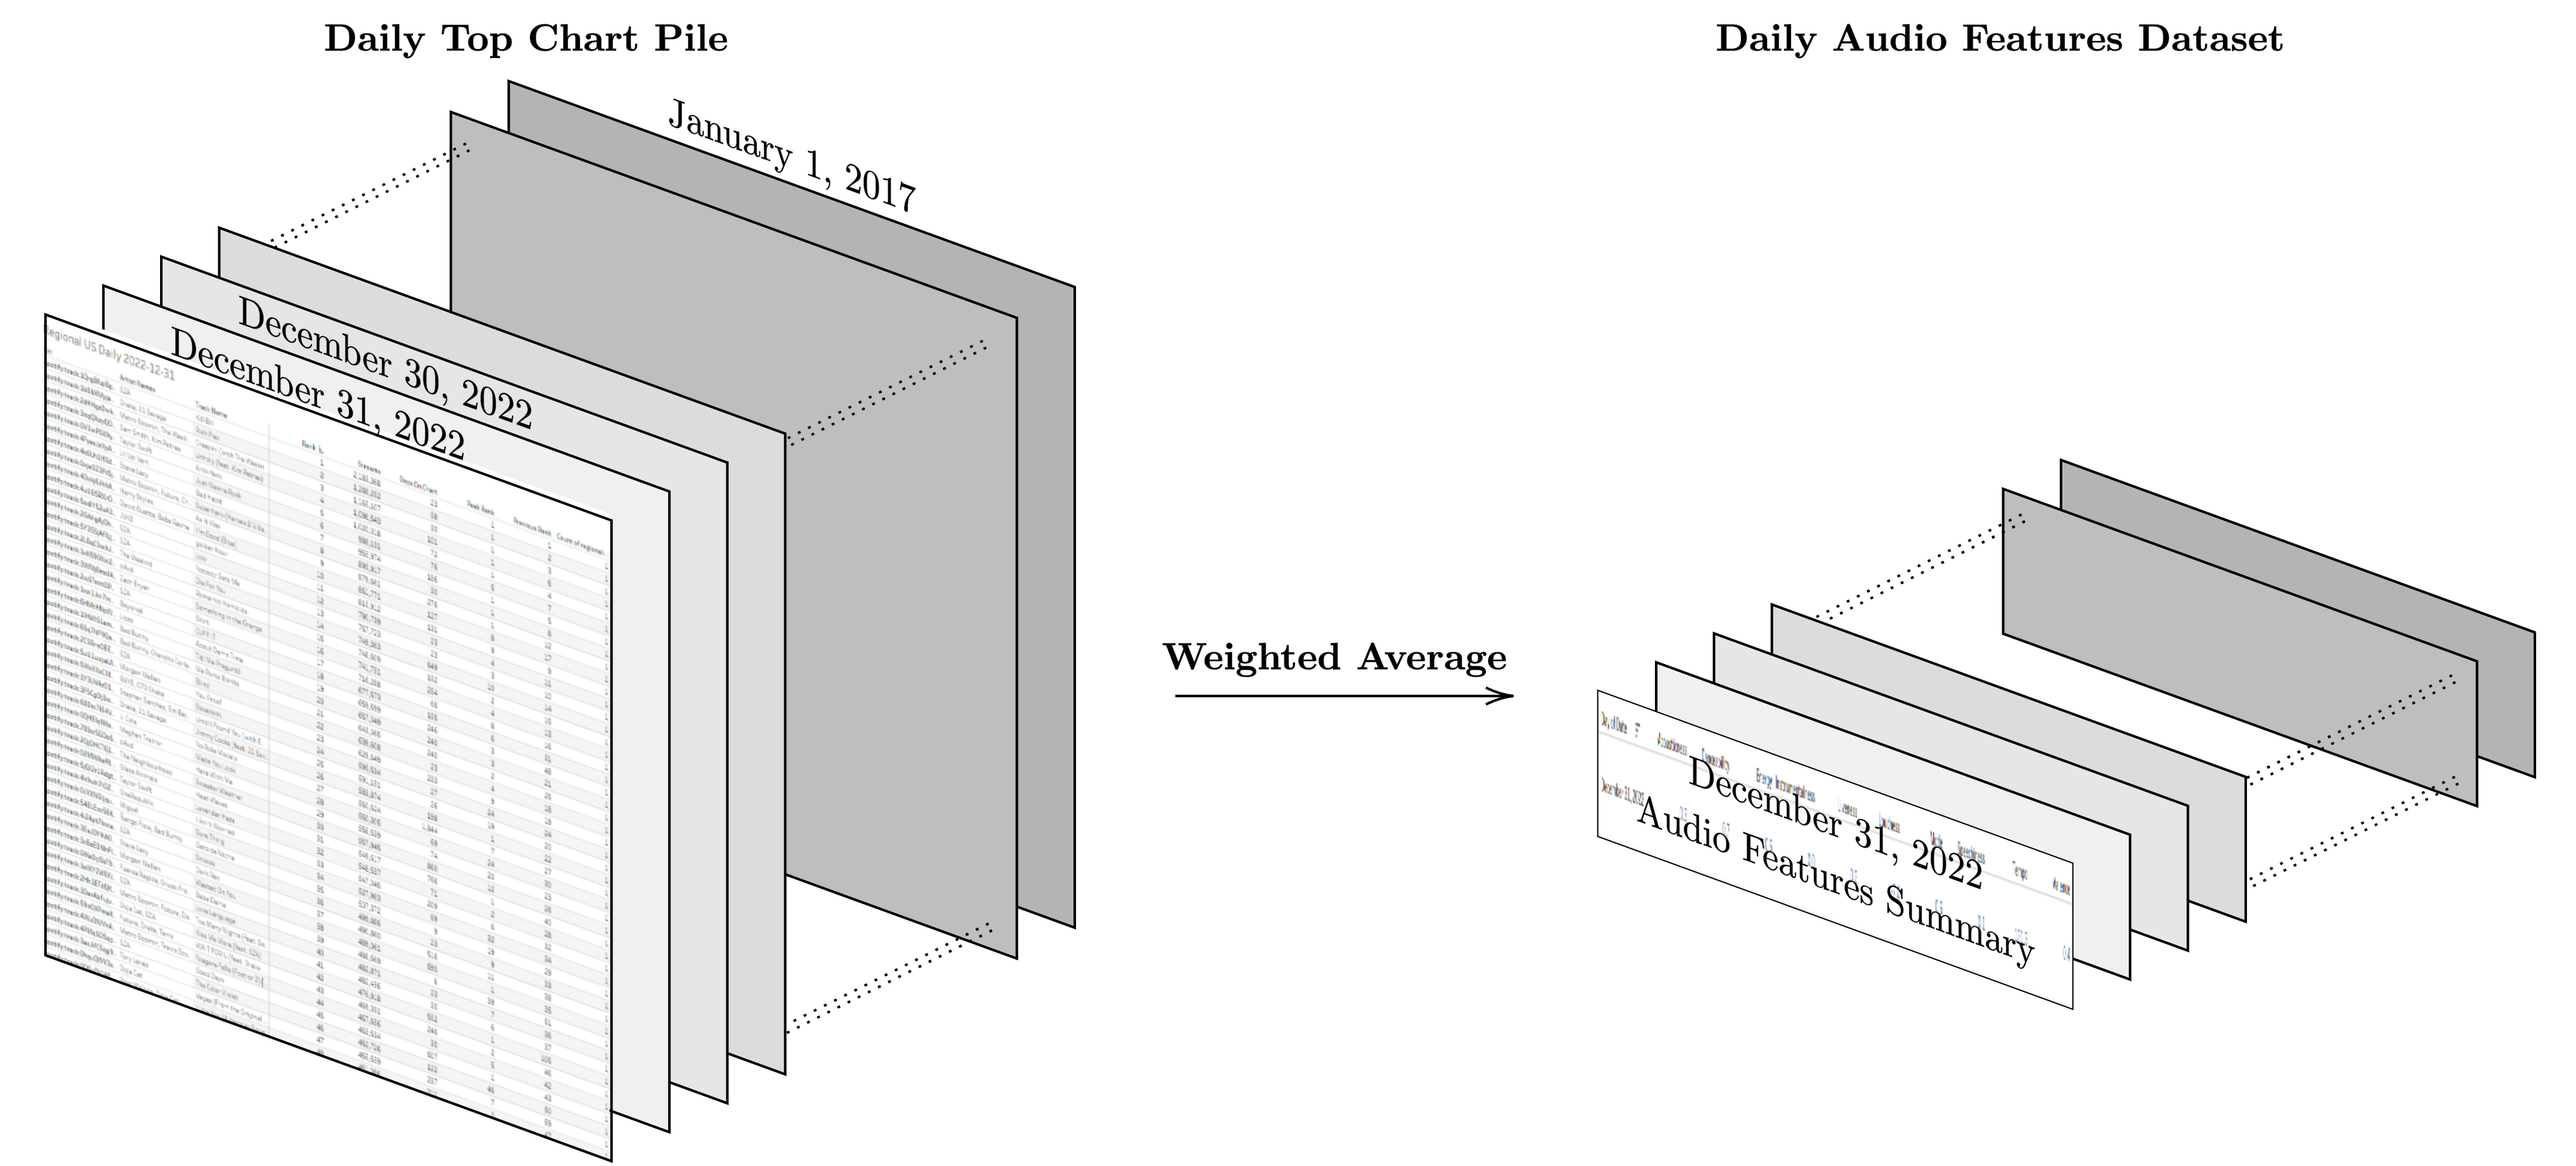
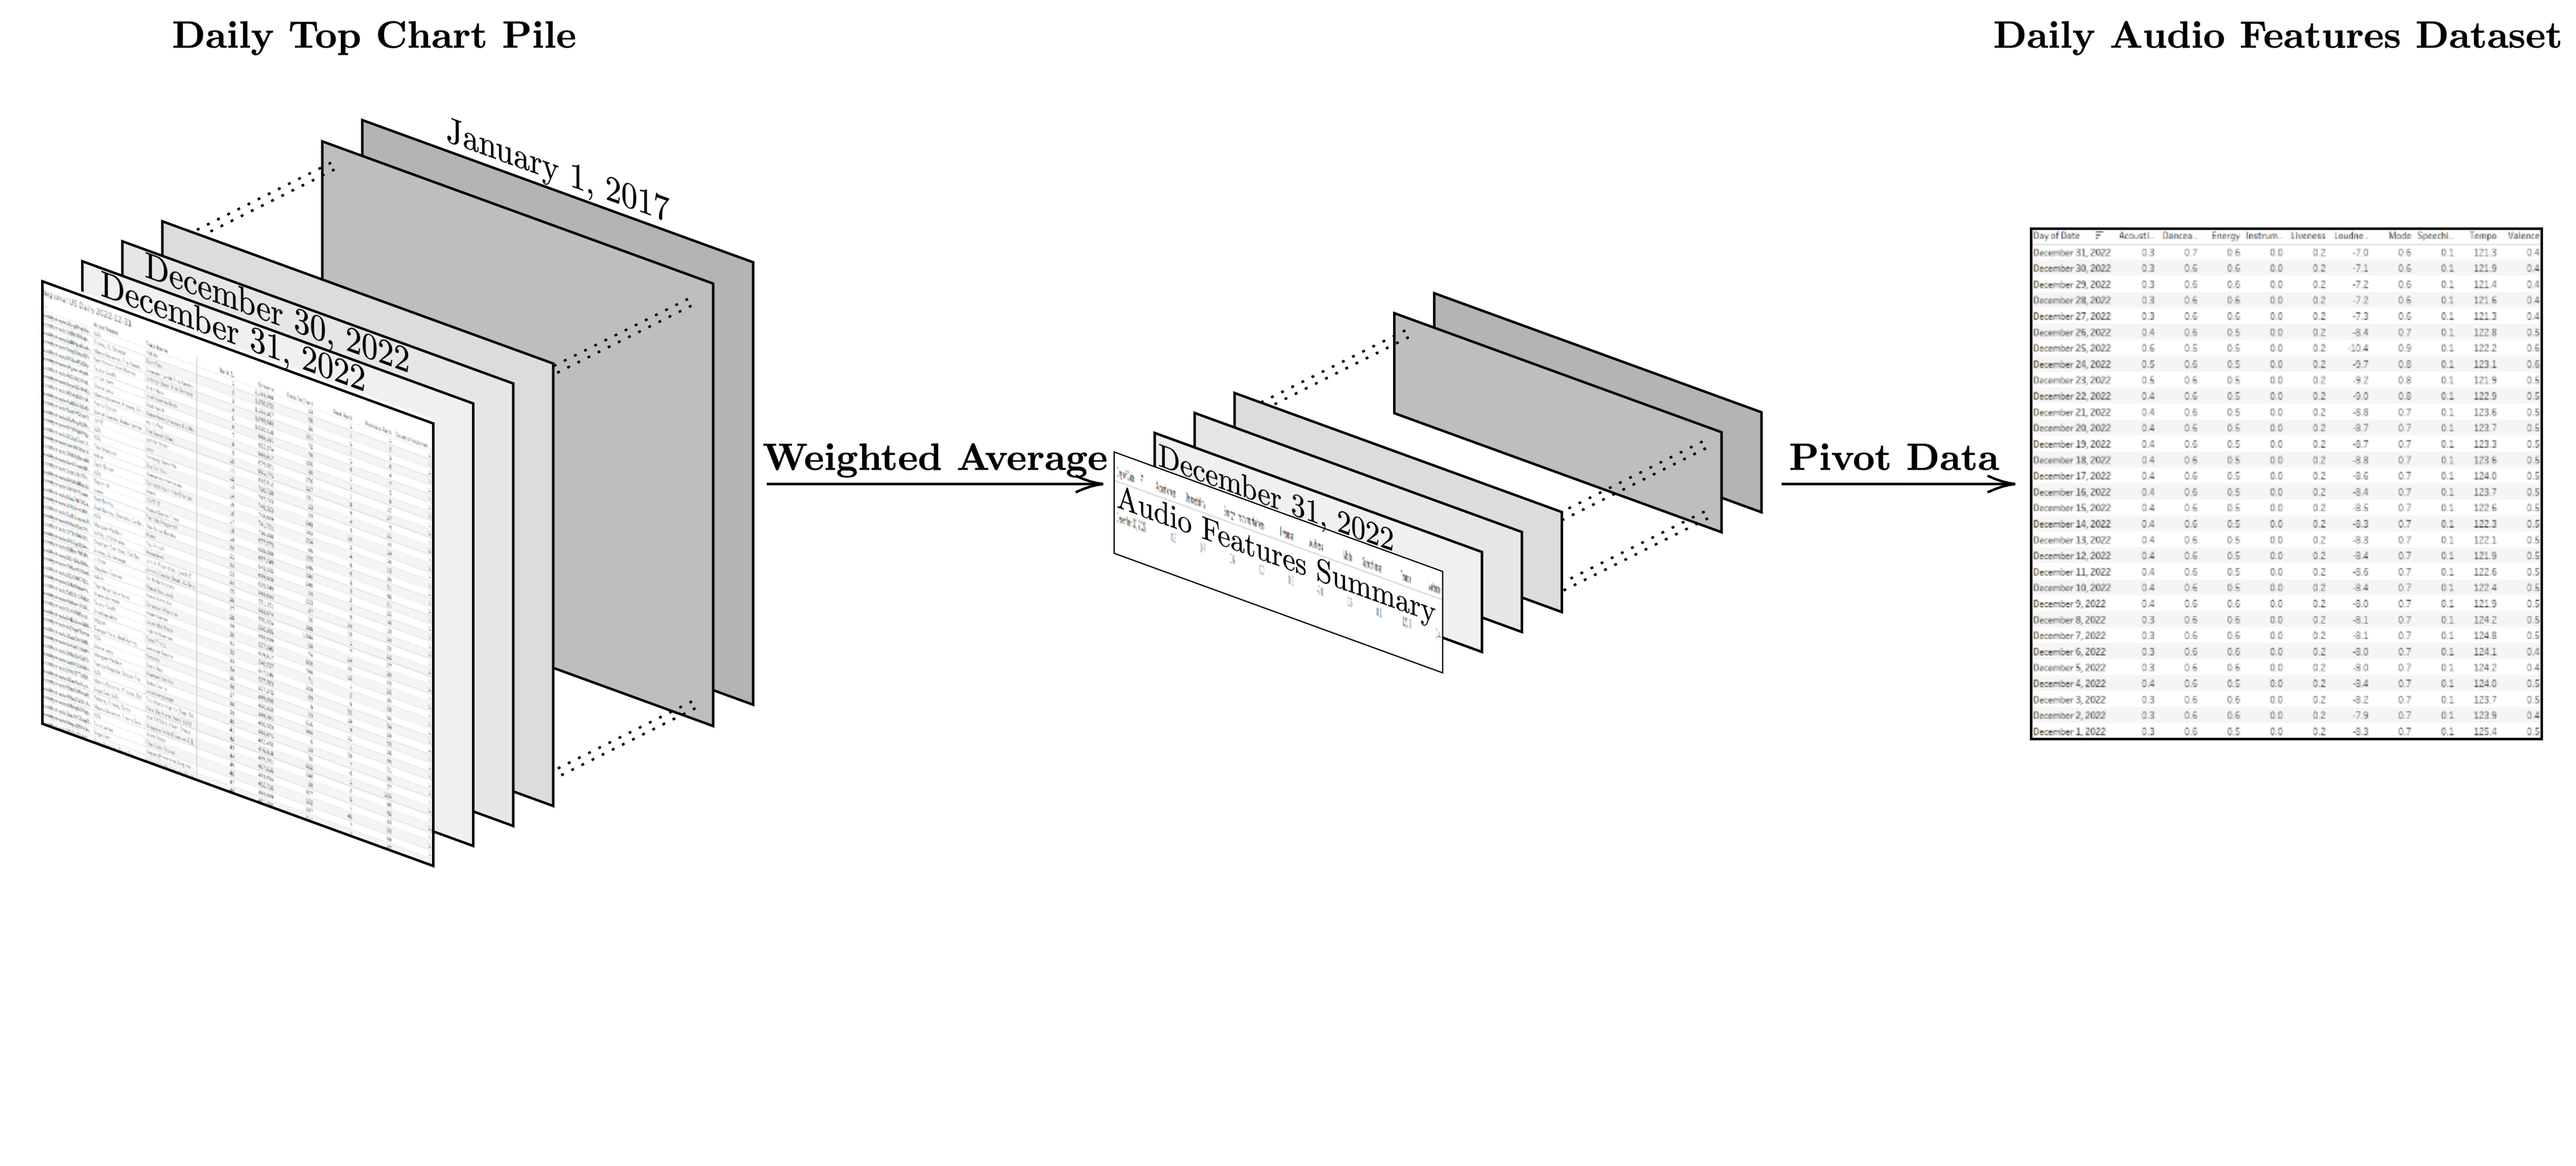
COVID-19 data include w/ obvservations

diff --git a/projects/covid_spotify.html b/projects/covid_spotify.html
@@ -40,16 +40,19 @@
             <h3>Tools</h3>
             <p>
                 <li>Python</li>
-                <li>Spotify API (spotipy)</li>
-                <li>Selenium (WebDriver)</li>
+                <li>
+                    <a href="https://developer.spotify.com/documentation/web-api">Spotify API</a>
+                    <a href="https://spotipy.readthedocs.io/en/2.22.1/">(spotipy)</a>
+                </li>
+                <li><a href="https://www.selenium.dev/">Selenium (WebDriver)</a></li>
                 <li>Pandas</li>
-                <li>Tableau</li>
+                <li><a href="https://www.tableau.com/products/desktop">Tableau</a></li>
             </p>
             <h3>Goals</h3>
             <p>
                 <li>Obtain Data: Daily Top 200 songs from 2017 to 2022 & COVID-19 Cases/Deaths</li>
                 <li>Transform Data: Daily Top 200 into daily-averaged Audio Features</li>
-                <li>Analysis:</li>
+                <li>Visualize & Analysize:</li>
             </p>
             <h2>Data</h2>
             <p>
@@ -57,7 +60,10 @@
                 I will define daily music tastes as the average of audio features of the top 200 songs trending Spotify Charts on a certain day.
             </p>
             <p>
-                We obtain the daily top 100 as a downloadable csv file from Spotify Charts.<br>
+                We obtain the
+                <a href="https://charts.spotify.com/charts/view/regional-us-daily/2022-12-31">daily top 100</a>
+                as a downloadable csv file from
+                <a href="https://charts.spotify.com/charts/overview/global">Spotify Charts.</a>
                 <div class='tableauPlaceholder' id='viz1695387954666' style='position: relative'><noscript><a
                             href='https:&#47;&#47;joakimawesome.github.io&#47;projects&#47;covid_spotify.html'><img
                                 alt='Daily Top Table '
@@ -127,18 +133,18 @@
                 These new values are meant to summarize the audio features of the day \( \text{n} \).
             </p>
             <p>
-                <div class='tableauPlaceholder' id='viz1695478241960' style='position: relative'><noscript><a href='#'><img
-                                alt='Dashboard 1 '
-                                src='https:&#47;&#47;public.tableau.com&#47;static&#47;images&#47;Sp&#47;SpotifyAudioFeatures_16954741312200&#47;Dashboard1&#47;1_rss.png'
+                <div class='tableauPlaceholder' id='viz1695580475567' style='position: relative'><noscript><a href='#'><img
+                                alt='Data (Raw) Dashboard '
+                                src='https:&#47;&#47;public.tableau.com&#47;static&#47;images&#47;Sp&#47;SpotifyAudioFeatures_16954741312200&#47;DataRawDashboard&#47;1_rss.png'
                                 style='border: none' /></a></noscript><object class='tableauViz' style='display:none;'>
                         <param name='host_url' value='https%3A%2F%2Fpublic.tableau.com%2F' />
                         <param name='embed_code_version' value='3' />
                         <param name='site_root' value='' />
-                        <param name='name' value='SpotifyAudioFeatures_16954741312200&#47;Dashboard1' />
+                        <param name='name' value='SpotifyAudioFeatures_16954741312200&#47;DataRawDashboard' />
                         <param name='tabs' value='no' />
                         <param name='toolbar' value='yes' />
                         <param name='static_image'
-                            value='https:&#47;&#47;public.tableau.com&#47;static&#47;images&#47;Sp&#47;SpotifyAudioFeatures_16954741312200&#47;Dashboard1&#47;1.png' />
+                            value='https:&#47;&#47;public.tableau.com&#47;static&#47;images&#47;Sp&#47;SpotifyAudioFeatures_16954741312200&#47;DataRawDashboard&#47;1.png' />
                         <param name='animate_transition' value='yes' />
                         <param name='display_static_image' value='yes' />
                         <param name='display_spinner' value='yes' />
@@ -149,7 +155,7 @@
                     </object>
                 </div>
                 <script type='text/javascript'>
-                    var divElement = document.getElementById('viz1695478241960');
+                    var divElement = document.getElementById('viz1695580475567');
                     var vizElement = divElement.getElementsByTagName('object')[0];
                     if (divElement.offsetWidth > 800) {
                         vizElement.style.width = '100%';
@@ -165,6 +171,42 @@
                     scriptElement.src = 'https://public.tableau.com/javascripts/api/viz_v1.js';
                     vizElement.parentNode.insertBefore(scriptElement, vizElement);
                 </script>
+            </p>
+            <p>
+                <a href="https://github.com/GoogleCloudPlatform/covid-19-open-data/blob/main/docs/table-epidemiology.md">COVID-19 Data</a>
+            </p>
+
+            <p>
+                Looking at the music data and COVID-19 data with just our eyes, there are dramatic shifts occurring during winter season for both. However, these are seasonal changes that are easily explanable:<br>
+                musical tastes in the United States transition to festive Christmas music, and by Christmas day, we observe many of the audio features spike.
+
+                <h4><strong>Positive Spikes:</strong></h4>
+                <li><strong>Acousticness</strong>
+                    suggests that the music is more likely to be acoustic in nature (not containing electronically synthesized audio).
+                </li>
+                <li><strong>Instrumentalness:</strong>
+                    indicates that there's been a surge in tracks without vocals or with minimal vocal content. 
+                </li>
+                <li><strong>Mode:</strong>
+                    indicates a trend towards songs in the major (happier) key.
+                </li>
+                <li><strong>Valence:</strong>
+                    means that the tracks might be slightly more positive or cheerful.
+                </li>
+
+                <h4><strong>Negative Spikes:</strong></h4>
+                <li><strong>Loudness:</strong>
+                    suggests that the tracks are becoming quieter.
+                </li>
+                <li><strong>Speechiness:</strong>
+                    indicates that there's been a reduction in spoken words or rap-style tracks.
+                </li>
+                <li><strong>Energy:</strong>
+                    suggests tracks are a bit less intense or lively.
+                </li>
+            </p>
+            <p>
+                <h4><strong>Potential Explanations</strong></h4>
             </p>
         </section>
 
